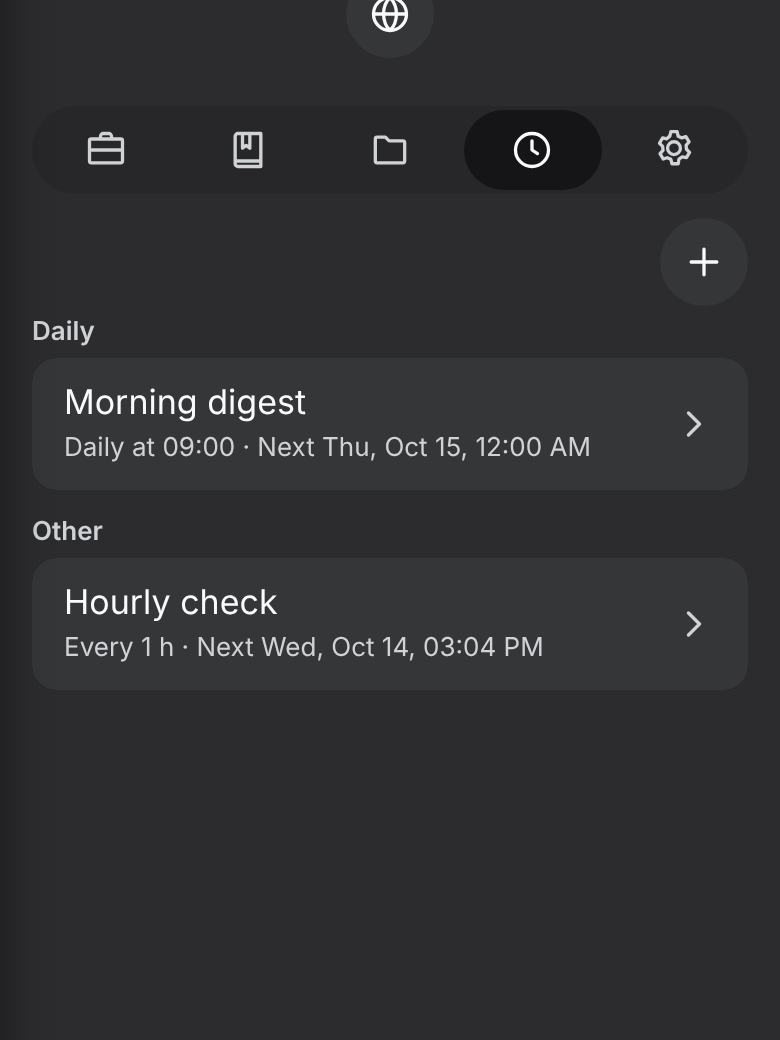
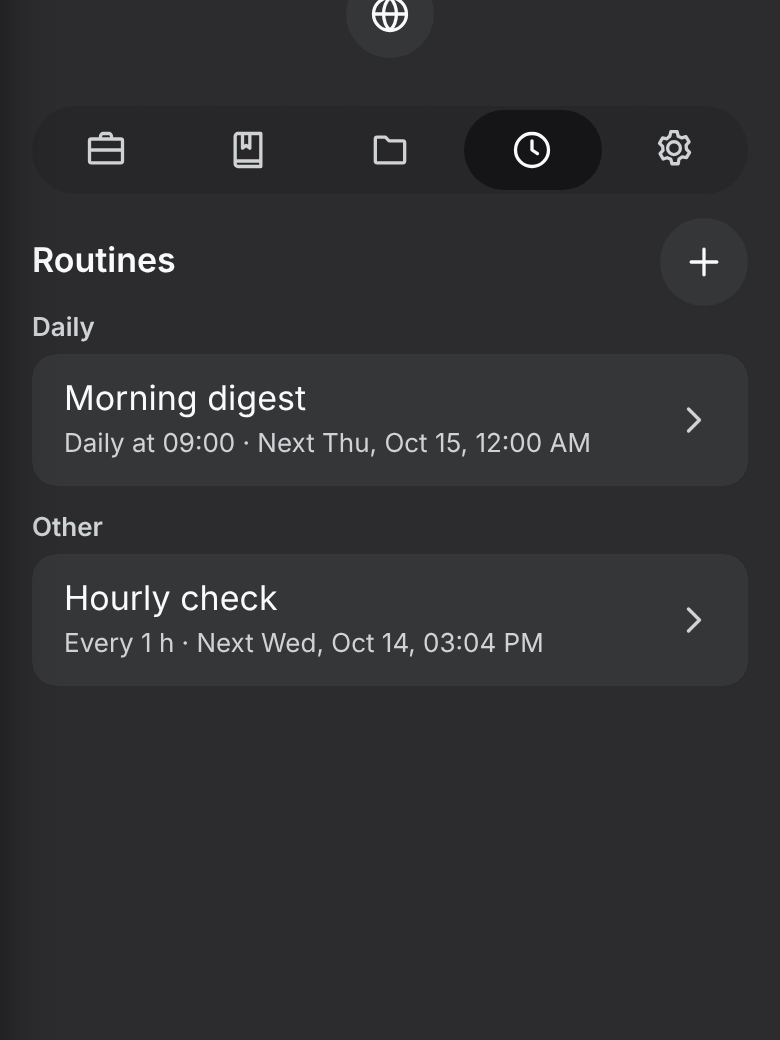
fix(mobile): keep the Routines name beside its + button
A profile tab shows its name only when it has a header action; the
name and the action share one vertically centred row.

Claude-Session: https://claude.ai/code/session_01Lpx6qoRGvydUsS2obmXM9u

diff --git a/apps/mobile/src/ui/chat/profile-shell.tsx b/apps/mobile/src/ui/chat/profile-shell.tsx
@@ -187,12 +187,21 @@ export function ProfileShell({
             testID={`profile-tab-content-${tab}`}
             style={{
               flexDirection: 'row',
-              justifyContent: 'flex-end',
+              alignItems: 'center',
+              justifyContent: 'space-between',
+              gap: space.x3,
               paddingTop: space.x2,
-              paddingBottom: body.action === undefined ? 0 : space.x2,
+              paddingBottom: body.action === undefined ? 0 : space.x1,
             }}
           >
-            {body.action}
+            {body.action === undefined ? null : (
+              <>
+                <Text testID="profile-tab-heading" accessibilityRole="header" strong>
+                  {t.profileTabs[tab]}
+                </Text>
+                {body.action}
+              </>
+            )}
           </View>,
         );
       case 'row':

diff --git a/apps/mobile/test/bot-profile-sheet.test.tsx b/apps/mobile/test/bot-profile-sheet.test.tsx
@@ -569,7 +569,7 @@ describe('Bot profile page', () => {
     await act(async () => open.click());
     expect(onOpenRoutine).toHaveBeenCalledWith(profileWire.rpc.scheduleList.schedules[0]);
     expect(headers(view)).toEqual(
-      expect.arrayContaining([t.routineGroup.daily, t.routineGroup.other]),
+      expect.arrayContaining([t.profileTabs.routines, t.routineGroup.daily, t.routineGroup.other]),
     );
     expect(headers(view)).not.toContain(t.routineGroup.weekly);
     expect(
@@ -596,6 +596,7 @@ describe('Bot profile page', () => {
     );
     expect(button(view, t.routineNew)).toBeNull();
     expect(view.textContent).toContain('Morning digest');
+    expect(headers(view)).not.toContain(t.profileTabs.routines);
   });
 
   it('runs a routine from its swipe action and reloads the list', async () => {

diff --git a/apps/mobile/DESIGN.md b/apps/mobile/DESIGN.md
@@ -384,7 +384,7 @@ The two-tab shell follows [ADR-0211](../../docs/adr/0211-the-mobile-app-has-two-
 - The DM's title chip opens it. On iOS 18 and later the page zooms out of the chip and back into it (`Link.AppleZoom` on the chip, `Link.AppleZoomTarget` on the avatar). Android and older iOS fade the page in while it scales up from `profileShell.openScale`; Reduce Motion and Android's animator scale 0 keep only the fade. ✕ (leading), swiping down from the top, and system or predictive Back close it.
 - Header: the Profile Banner (the Bot's uploaded banner, else its pixel scene, else a scene seeded from its name, as on Web and Marketplace), the overlapping avatar (tap to change it), name, status and roles, the description, then round **Browser** and **Computer** buttons only when the Bot has that access. There is no Message, Share or trailing button: the chat is one Back away.
 - Below the header, icon-only native tabs: **Work / Memory / Files / Routines / Settings** (工作 / 记忆 / 文件 / 定时 / 设置). iOS uses a SwiftUI segmented `Picker` with SF Symbols (`briefcase`, `book.closed`, `folder`, `clock`, `gearshape`); Android uses the M3 Expressive connected button group (`ToggleButton`s with connected leading/middle/trailing shapes, the selected button morphing to a full pill, and the Expressive spatial spring; Reduce Motion uses the standard scheme). Each tab is announced by name and selected state.
-- The header collapses as the page scrolls; the tab bar sticks to the top (on iOS 26 the stuck bar sits on Liquid Glass, elsewhere on a raised fill), and the page title fades into the top bar. A horizontal swipe moves to the neighbouring tab.
+- The header collapses as the page scrolls; the tab bar sticks to the top (on iOS 26 the stuck bar sits on Liquid Glass, elsewhere on a raised fill), and the page title fades into the top bar. A horizontal swipe moves to the neighbouring tab. A tab does not repeat its name as a heading when its content explains itself (Work, Memory); a tab with a header action shows its name beside the action (Routines and its **+**), and sections that need words keep their own headings (Approval history, Daily).
 - The last tab chosen is remembered once for every Bot profile on the device; an unknown remembered tab opens the first tab.
 - **Work**: iOS request tracking, then the Bot's Assignments (unarchived, newest first) grouped by the day of their last activity (Today, Yesterday, then dates). Each row is a grouped list row with an activity icon (working, idle, error, stopping, stopped), the Assignment Title, the Assignment Description (two lines) and the time; the state is in its accessibility label. Orchestrator turns are not listed.
   - Tapping a row pushes the read-only **Assignment detail** inside the profile stack (`bot/[slug]/assignment/[id]`, also reachable as a deep link): a status chip, the Title and Description, the latest Assignment Report, then a **Timeline** with one group per agent, **MAIN** (the Assignment Agent) first and **SUBAGENT 01, 02…** after it. Each step has a status mark (ring while running; filled green, red, amber or grey when done, failed, denied or stopped), a summary from the tool kind ("Ran a command"), the tool's public detail or tool name, and the time. Raw tool input and output never appear; they are not sent by the Host (`assignmentTimeline`, CLI `assignment-timeline`). The page has no stop, archive or message action; a closing note sends the Human to the chat.

diff --git a/docs/proposals/mobile-bot-profile-tabs.md b/docs/proposals/mobile-bot-profile-tabs.md
@@ -16,7 +16,7 @@ Every rule in `apps/mobile/DESIGN.md` and `apps/mobile/OVERLAYS.md` still applie
 - Bot profile: **Work / Memory / Files / Routines / Settings**.
 - Group profile: **Members / Files / Work / Settings**. Join requests sit in Members.
 - Bot-to-Bot DM: Files only, so no tab bar.
-- Icon-only tabs (SF Symbols / Material Symbols) with accessibility labels. The icon tab names the content, so a tab does not repeat its name as a heading; sections inside a tab keep their own headings ("Daily").
+- Icon-only tabs (SF Symbols / Material Symbols) with accessibility labels. The icon tab names the content, so a tab does not repeat its name as a heading unless it has a header action (Routines shows its name beside **+**); sections inside a tab keep their own headings ("Daily").
 - iOS: native segmented `Picker`, using system springs. Android: M3 Expressive connected button group (`ButtonGroup` + `ToggleButton`) using the connected leading, middle and trailing shapes, with the selected button morphing to a fully round shape on the Expressive spatial spring; see [Button groups guidelines](https://m3.material.io/components/button-groups/guidelines) and [specs](https://m3.material.io/components/button-groups/specs). Reduce Motion and animator scale 0 use fades.
 - Scrolling collapses the avatar and name; the tab bar sticks to the top and floats over the content (glass on iOS 26, opaque `raised` elsewhere). Horizontal swipe switches tabs.
 - The last tab is remembered globally, once for Bot profiles and once for Group profiles, not per Bot. A remembered tab that the page lacks falls back to the first tab. A Live Activity deep link opens that Assignment's detail instead.

diff --git a/changes/profile-tab-heading.md b/changes/profile-tab-heading.md
@@ -4,8 +4,8 @@ section: Changed
 
 ## en
 
-- Mobile Bot and Group profile tabs no longer repeat the tab's name as a heading above their content; the selected icon tab already names it ([#2904](https://github.com/BotHarness/DeepSeekBot/issues/2904)).
+- Mobile Bot and Group profile tabs no longer repeat the tab's name as a heading above their content; the selected icon tab already names it. Routines keeps its name beside its **+** button ([#2904](https://github.com/BotHarness/DeepSeekBot/issues/2904)).
 
 ## zh
 
-- 手机端 Bot 和群组资料页的各个分段不再在内容上方重复显示分段名称，选中的图标分段已经说明了当前位置（[#2904](https://github.com/BotHarness/DeepSeekBot/issues/2904)）。
+- 手机端 Bot 和群组资料页的各个分段不再在内容上方重复显示分段名称，选中的图标分段已经说明了当前位置；定时分段的 **+** 按钮旁仍显示名称（[#2904](https://github.com/BotHarness/DeepSeekBot/issues/2904)）。
